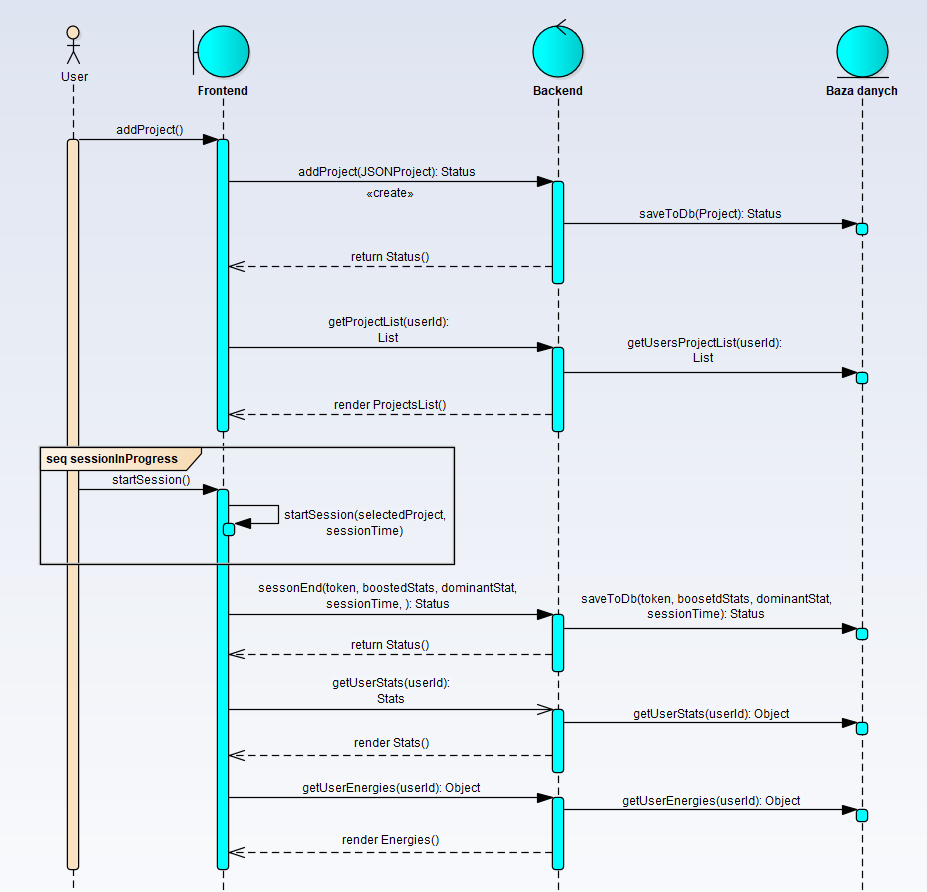
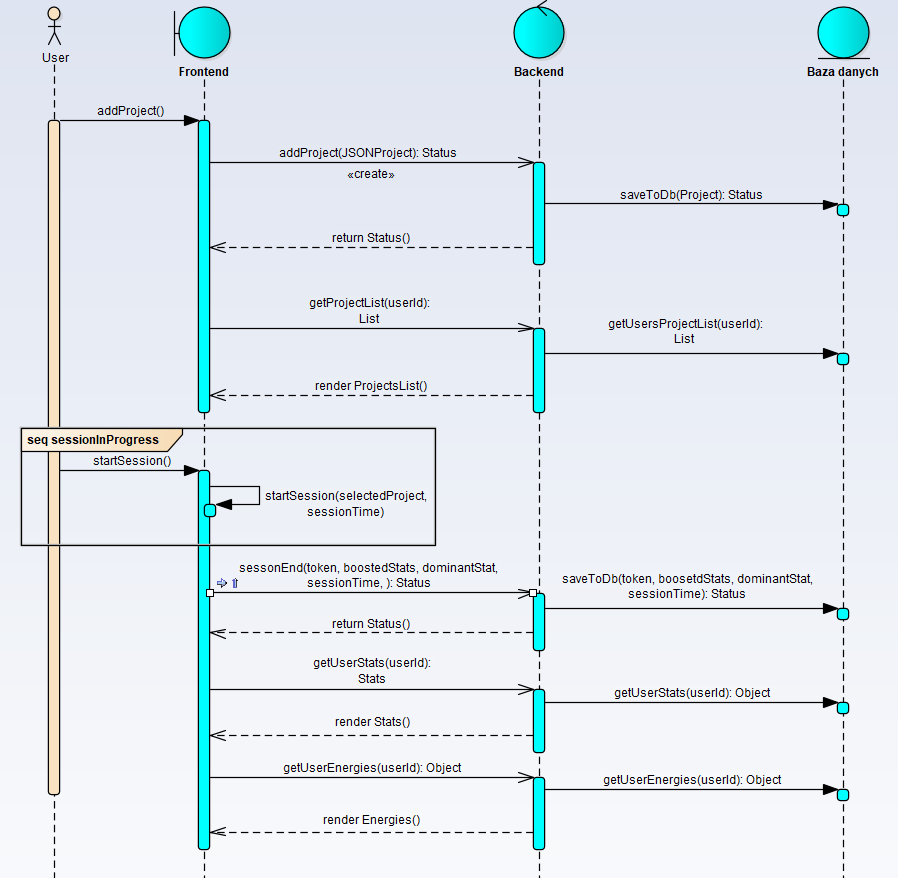
added and edited diagrams 3.3

diff --git a/latex/Praca Inżynierska Gamitude.tex b/latex/Praca Inżynierska Gamitude.tex
@@ -1027,6 +1027,9 @@ Use case dla całego systemu\\
 \includegraphics[width=\textwidth, height=9cm]{sekwencji.png}\\
 Diagram sekwencji dla dodawania projektu oraz włączania sesji\\
 \vspace{0.5cm}
+\includegraphics[width=\textwidth, height=9cm]{sekwencji1.png}\\
+Diagram sekwencji dla załadowania strony Bullet Journal’a oraz usuwania zadania\\
+\vspace{0.5cm}
 \chapter {Planowanie}
 \section{Metodyka pracy}
 Po dłuższym namyśle zdecydowaliśmy, że dobrym dla nas podejściem byłoby podążanie sprintami z metodologii Scrum
